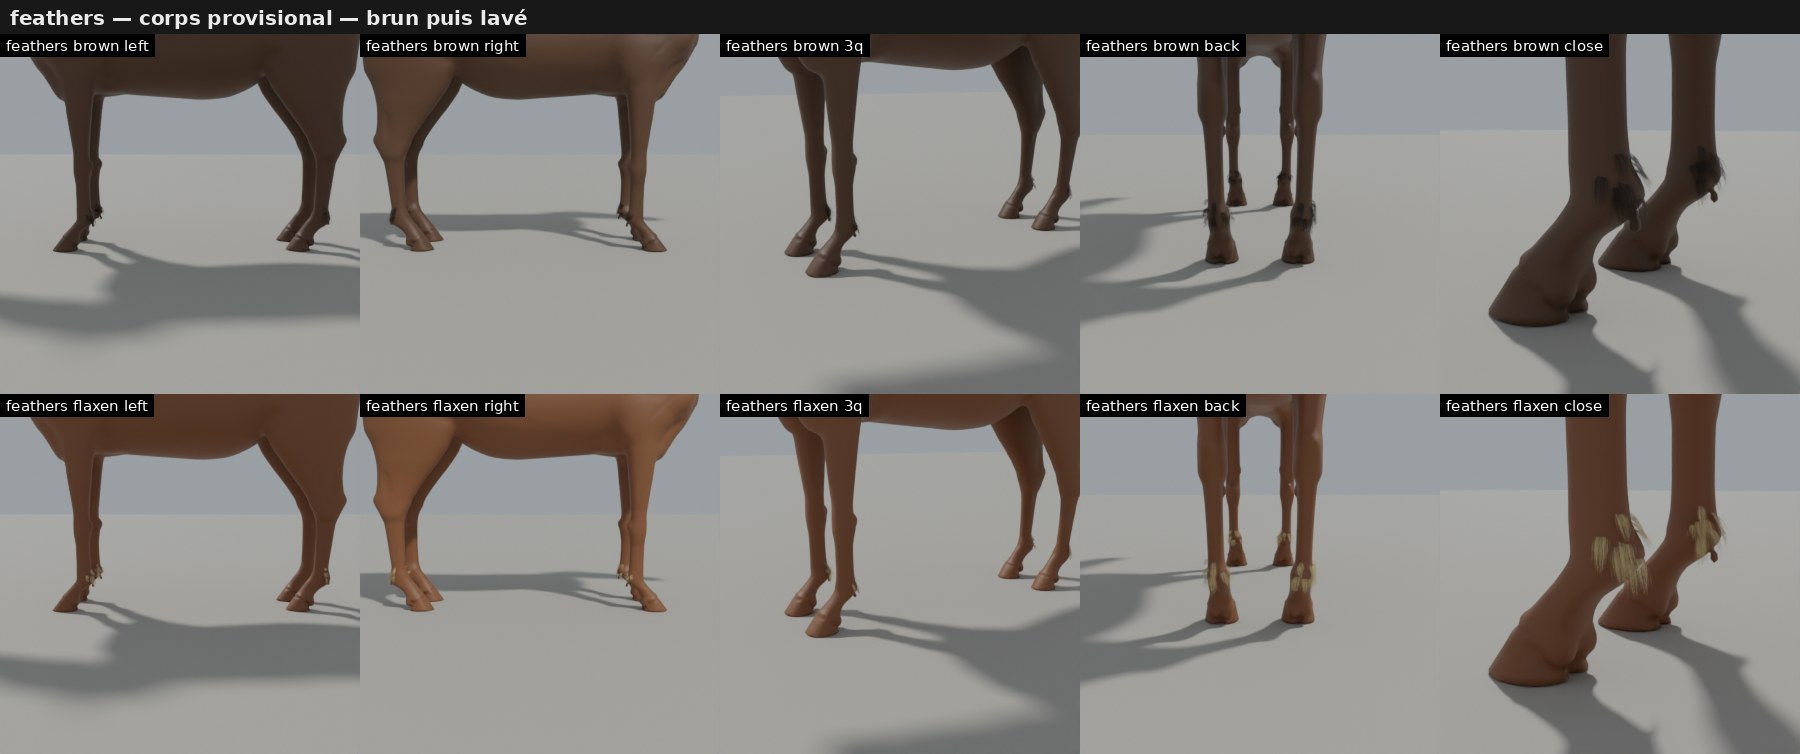
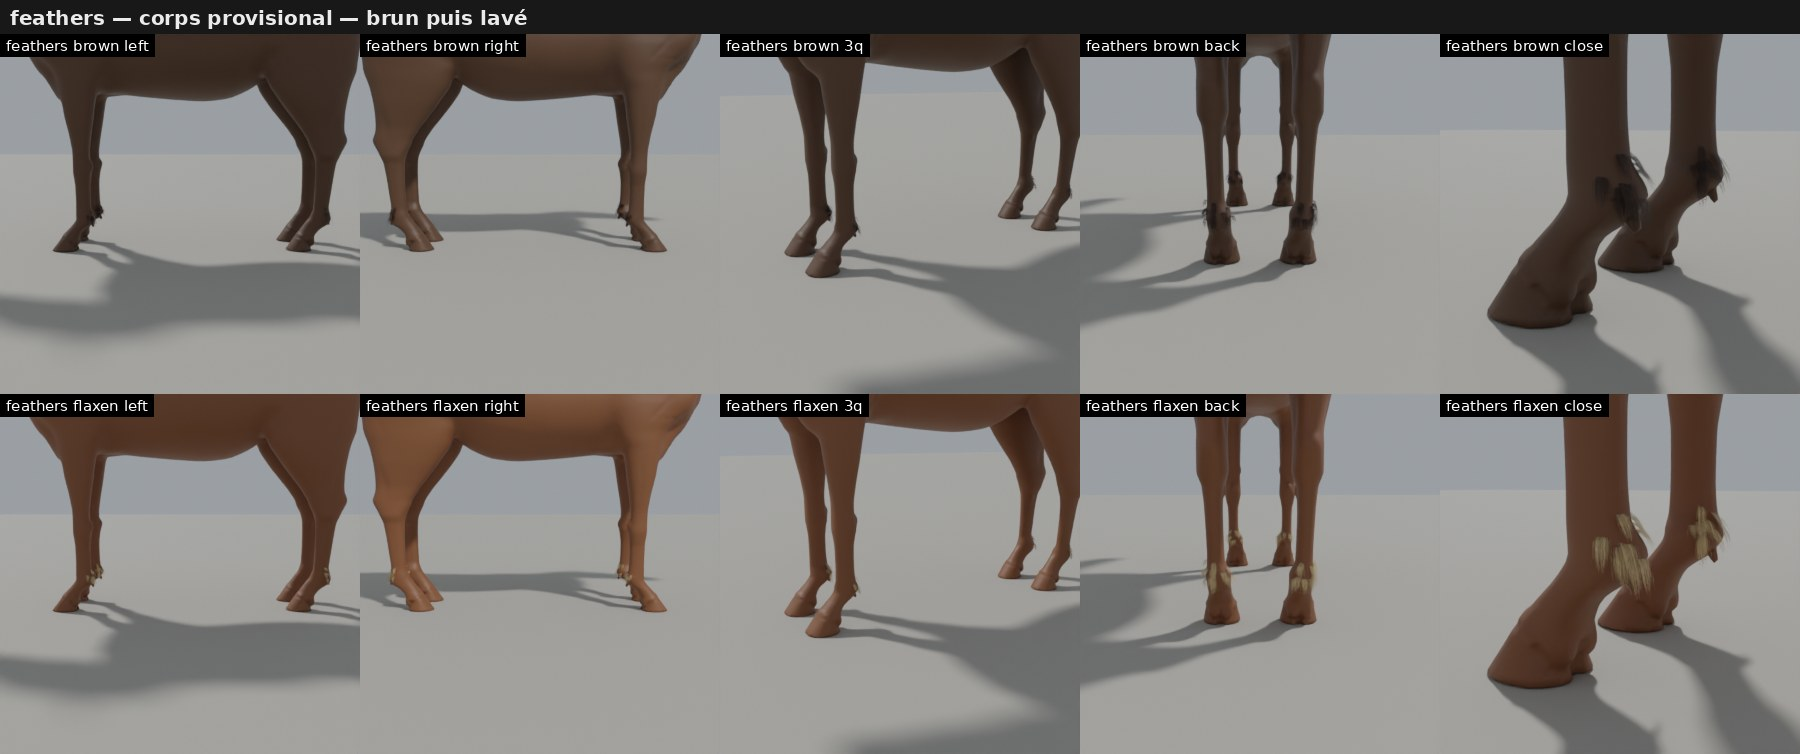
ValombrePony (WIP): reprise — état des modules corps, animation, crins et PonyKit
Instantané avant relance des agents (corps v15, modules d'animation, pièces de crins,
premiers fichiers PonyKit RealityKit). Non finalisé.

Claude-Session: https://claude.ai/code/session_01F5XXaSjBaSMrqED8EEuA65

diff --git a/ValombrePony/PonyKit/Sources/PonyKit/Rendering/PonySkinBinding.swift b/ValombrePony/PonyKit/Sources/PonyKit/Rendering/PonySkinBinding.swift
@@ -1,0 +1,270 @@
+import Foundation
+import PonyCore
+import RealityKit
+
+// Dans ce fichier, `Transform` est ambigu (RealityKit / PonyCore) : toujours qualifier le module.
+
+extension RealityKit.Transform {
+    /// Conversion d'une transformation locale PonyCore (quaternion `[x, y, z, w]`, mêmes axes : le runtime
+    /// travaille déjà en espace RealityKit, SPEC §1).
+    init(pony t: PonyCore.Transform) {
+        self.init(scale: t.scale,
+                  rotation: simd_quatf(ix: t.rotation.x, iy: t.rotation.y, iz: t.rotation.z, r: t.rotation.w),
+                  translation: t.translation)
+    }
+}
+
+extension Quat {
+    /// Conversion depuis un quaternion simd (RealityKit).
+    public init(_ q: simd_quatf) {
+        self.init(x: q.imag.x, y: q.imag.y, z: q.imag.z, w: q.real)
+    }
+}
+
+/// Parcours de hiérarchie et diagnostic des entités importées.
+@MainActor
+enum PonyEntityTree {
+    /// L'entité et tous ses descendants (ordre préfixe).
+    static func descendants(of root: Entity) -> [Entity] {
+        var out: [Entity] = []
+        var stack: [Entity] = [root]
+        while let e = stack.popLast() {
+            out.append(e)
+            stack.append(contentsOf: Array(e.children).reversed())
+        }
+        return out
+    }
+
+    /// Entités portant un `ModelComponent`.
+    static func modelEntities(in root: Entity) -> [Entity] {
+        return descendants(of: root).filter { $0.components.has(ModelComponent.self) }
+    }
+
+    /// Entités portant un `SkeletalPosesComponent` (squelette importé d'un UsdSkel).
+    static func poseEntities(in root: Entity) -> [Entity] {
+        return descendants(of: root).filter { $0.components.has(SkeletalPosesComponent.self) }
+    }
+
+    /// Entités portant un `BlendShapeWeightsComponent`.
+    static func blendEntities(in root: Entity) -> [Entity] {
+        return descendants(of: root).filter { $0.components.has(BlendShapeWeightsComponent.self) }
+    }
+
+    /// Arbre lisible : nom, composants pertinents, noms de matériaux (tests sur appareil, realitykit.md §9.1).
+    static func describe(_ root: Entity) -> String {
+        var lines: [String] = []
+        func visit(_ e: Entity, _ depth: Int) {
+            var tags: [String] = []
+            if e.components.has(ModelComponent.self) { tags.append("Model") }
+            if e.components.has(SkeletalPosesComponent.self) { tags.append("SkeletalPoses") }
+            if e.components.has(BlendShapeWeightsComponent.self) { tags.append("BlendShapeWeights") }
+            if e.components.has(AnimationLibraryComponent.self) { tags.append("AnimationLibrary") }
+            var extra = ""
+            if let model = e.components[ModelComponent.self] {
+                let names = model.materials.map { m -> String in
+                    let kind = m is PhysicallyBasedMaterial ? "PBR" : "\(type(of: m))"
+                    return "\(m.name ?? "∅")(\(kind))"
+                }
+                extra += " matériaux=[\(names.joined(separator: ", "))]"
+            }
+            if let poses = e.components[SkeletalPosesComponent.self], let p = poses.poses.default {
+                extra += " joints=\(p.jointNames.count) (ex. \(p.jointNames.prefix(3).joined(separator: ", ")))"
+            }
+            if let bs = e.components[BlendShapeWeightsComponent.self] {
+                var parts: [String] = []
+                for data in bs.weightSet {
+                    parts.append("\(data.weightNames.count) poids")
+                }
+                extra += " blendShapes=[\(parts.joined(separator: ", "))]"
+            }
+            let indent = String(repeating: "  ", count: depth)
+            lines.append("\(indent)- « \(e.name) » [\(tags.joined(separator: ", "))]\(extra)")
+            for c in e.children {
+                visit(c, depth + 1)
+            }
+        }
+        visit(root, 0)
+        return lines.joined(separator: "\n")
+    }
+
+    /// Dernier segment d'un nom de type chemin (`root/body/hips` → `hips`).
+    nonisolated static func shortName(_ s: String) -> String {
+        if let last = s.split(separator: "/").last {
+            return String(last)
+        }
+        return s
+    }
+}
+
+/// Lien entre le runtime (ordre des joints du manifeste, noms de blend shapes) et UNE entité RealityKit
+/// importée (corps ou pièce) : table de correspondance des joints, table des poids, écriture par frame.
+///
+/// - Joints : les noms de `SkeletalPose.jointNames` peuvent être des chemins USD ; on compare le dernier
+///   segment au nom court du manifeste (SPEC §1), puis le chemin complet. Joints absents journalisés.
+/// - Poids : table nom → (élément de `weightSet`, indice de poids) construite une fois ; noms inconnus du runtime
+///   ignorés. Écriture seulement si une valeur a changé (> 1e-4).
+@MainActor
+final class PonySkinBinding {
+    let entity: Entity
+    let label: String
+    /// Indice du joint du manifeste pour chaque joint de la pose RealityKit (−1 = laissé tel quel).
+    private(set) var jointMap: [Int] = []
+    private(set) var missingJoints: [String] = []
+    private(set) var unknownJoints: [String] = []
+    let hasPose: Bool
+
+    private struct WeightEntry {
+        let weightIndex: Int
+        let name: String
+        let flatIndex: Int
+    }
+
+    private var weightTable: [[WeightEntry]] = []
+    private var lastWeights: [Float] = []
+    private(set) var ignoredWeightNames: [String] = []
+    let hasWeights: Bool
+    private var poseWarningLogged = false
+
+    init(entity: Entity, label: String, manifest: PonyRigManifest, knownShapes: Set<String>) {
+        self.entity = entity
+        self.label = label
+        var byName: [String: Int] = [:]
+        var byPath: [String: Int] = [:]
+        for (i, j) in manifest.joints.enumerated() {
+            byName[j.name] = i
+            byPath[j.path] = i
+        }
+
+        // Joints.
+        if let poses = entity.components[SkeletalPosesComponent.self], let pose = poses.poses.default {
+            hasPose = true
+            var map: [Int] = []
+            var found = Set<Int>()
+            for raw in pose.jointNames {
+                let idx = byName[PonyEntityTree.shortName(raw)] ?? byPath[raw] ?? -1
+                map.append(idx)
+                if idx >= 0 { found.insert(idx) } else { unknownJoints.append(raw) }
+            }
+            jointMap = map
+            missingJoints = manifest.joints.enumerated().filter { !found.contains($0.offset) }.map { $0.element.name }
+            if !missingJoints.isEmpty {
+                PonyLog.warning("\(label) : \(missingJoints.count) joint(s) du manifeste absents du squelette importé "
+                    + "(\(missingJoints.prefix(6).joined(separator: ", "))…)")
+            }
+            if !unknownJoints.isEmpty {
+                PonyLog.warning("\(label) : \(unknownJoints.count) joint(s) importés inconnus du manifeste, laissés "
+                    + "à leur pose (\(unknownJoints.prefix(4).joined(separator: ", "))…)")
+            }
+        } else {
+            hasPose = false
+        }
+
+        // Poids des blend shapes.
+        if let bs = entity.components[BlendShapeWeightsComponent.self] {
+            var table: [[WeightEntry]] = []
+            var flat = 0
+            var ignored: [String] = []
+            for data in bs.weightSet {
+                var entries: [WeightEntry] = []
+                for (wi, raw) in data.weightNames.enumerated() {
+                    let name = PonyEntityTree.shortName(raw)
+                    if knownShapes.contains(name) {
+                        entries.append(WeightEntry(weightIndex: wi, name: name, flatIndex: flat))
+                        flat += 1
+                    } else if knownShapes.contains(raw) {
+                        entries.append(WeightEntry(weightIndex: wi, name: raw, flatIndex: flat))
+                        flat += 1
+                    } else {
+                        ignored.append(raw)
+                    }
+                }
+                table.append(entries)
+            }
+            weightTable = table
+            lastWeights = [Float](repeating: -1, count: flat)
+            ignoredWeightNames = ignored
+            hasWeights = flat > 0
+            if !ignored.isEmpty {
+                PonyLog.info("\(label) : blend shapes non pilotées par le runtime : \(ignored.prefix(8).joined(separator: ", "))")
+            }
+        } else {
+            hasWeights = false
+        }
+    }
+
+    /// Écrit la pose locale (ordre du manifeste, déjà convertie) dans `SkeletalPosesComponent.poses.default`.
+    func writePose(_ pose: [RealityKit.Transform]) {
+        guard hasPose, var component = entity.components[SkeletalPosesComponent.self],
+              var skeletal = component.poses.default else { return }
+        var transforms = skeletal.jointTransforms
+        let count = transforms.count
+        if count < jointMap.count {
+            // Pose importée sans transformations (non documenté) : on reconstruit un tableau complet [I].
+            if !poseWarningLogged {
+                poseWarningLogged = true
+                PonyLog.warning("\(label) : pose importée incomplète (\(count)/\(jointMap.count)), reconstruite")
+            }
+            var full = [RealityKit.Transform](repeating: RealityKit.Transform(), count: jointMap.count)
+            for (i, m) in jointMap.enumerated() where m >= 0 && m < pose.count {
+                full[i] = pose[m]
+            }
+            transforms = JointTransforms(full)
+        } else {
+            let base = transforms.startIndex
+            for i in 0..<jointMap.count {
+                let m = jointMap[i]
+                if m >= 0 && m < pose.count {
+                    transforms[base + i] = pose[m]
+                }
+            }
+        }
+        skeletal.jointTransforms = transforms
+        component.poses.default = skeletal
+        entity.components.set(component)
+    }
+
+    /// Écrit les poids (noms → valeurs 0…1). Sans changement depuis la dernière écriture : rien n'est fait.
+    func writeWeights(_ weights: [String: Float], force: Bool = false) {
+        guard hasWeights, var component = entity.components[BlendShapeWeightsComponent.self] else { return }
+        var changed = force
+        if !changed {
+            outer: for entries in weightTable {
+                for e in entries {
+                    let v = weights[e.name] ?? 0
+                    if abs(v - lastWeights[e.flatIndex]) > 1e-4 {
+                        changed = true
+                        break outer
+                    }
+                }
+            }
+        }
+        if !changed { return }
+        var set = component.weightSet
+        var idx = set.startIndex
+        var k = 0
+        while idx != set.endIndex && k < weightTable.count {
+            let entries = weightTable[k]
+            if !entries.isEmpty {
+                var data = set[idx]
+                var values = data.weights
+                let base = values.startIndex
+                for e in entries where e.weightIndex < values.count {
+                    let v = weights[e.name] ?? 0
+                    values[base + e.weightIndex] = v
+                    lastWeights[e.flatIndex] = v
+                }
+                data.weights = values
+                set[idx] = data
+            }
+            idx = set.index(after: idx)
+            k += 1
+        }
+        component.weightSet = set
+        entity.components.set(component)
+    }
+
+    var summary: String {
+        return "\(label) : pose=\(hasPose ? "\(jointMap.count) joints, \(missingJoints.count) manquants" : "non"), "
+            + "poids=\(hasWeights ? "\(lastWeights.count)" : "non")"
+    }
+}

diff --git a/ValombrePony/Pipeline/pony/anim/catalog.py b/ValombrePony/Pipeline/pony/anim/catalog.py
@@ -1,0 +1,47 @@
+"""Catalogue des clips du SPEC §7 : nom -> (générateur, durée cible du SPEC, type de source).
+
+Ordre = priorité du brief (allures et repos, puis comportements, puis saut).
+"""
+from __future__ import annotations
+
+from . import behaviours, gait, jump
+from .skeleton import Skeleton
+
+# nom : (fonction (sk) -> Clip, durée cible SPEC (s), catégorie)
+CLIPS = {
+    "idle": (lambda sk: behaviours.make(sk, "idle"), 6.0, "repos"),
+    "walk": (lambda sk: gait.make_gait_clip(sk, gait.walk_spec()), 1.05, "allure"),
+    "trot": (lambda sk: gait.make_gait_clip(sk, gait.trot_spec()), 0.66, "allure"),
+    "canter_left": (lambda sk: gait.make_gait_clip(sk, gait.canter_spec("left")), 0.57, "allure"),
+    "canter_right": (lambda sk: gait.make_gait_clip(sk, gait.canter_spec("right")), 0.57, "allure"),
+    "gallop": (lambda sk: gait.make_gait_clip(sk, gait.gallop_spec()), 0.46, "allure"),
+    "back": (lambda sk: gait.make_gait_clip(sk, gait.back_spec()), 1.2, "allure"),
+    "turn_left": (lambda sk: gait.make_gait_clip(sk, gait.turn_spec("left")), 1.4, "allure"),
+    "turn_right": (lambda sk: gait.make_gait_clip(sk, gait.turn_spec("right")), 1.4, "allure"),
+    "idle_rest_hind": (lambda sk: behaviours.make(sk, "idle_rest_hind"), 6.0, "repos"),
+    "graze_down": (lambda sk: behaviours.make(sk, "graze_down"), 1.5, "comportement"),
+    "graze_loop": (lambda sk: behaviours.make(sk, "graze_loop"), 5.0, "comportement"),
+    "graze_up": (lambda sk: behaviours.make(sk, "graze_up"), 1.2, "comportement"),
+    "head_shake": (lambda sk: behaviours.make(sk, "head_shake"), 1.2, "comportement"),
+    "neigh": (lambda sk: behaviours.make(sk, "neigh"), 2.2, "comportement"),
+    "paw": (lambda sk: behaviours.make(sk, "paw"), 1.6, "comportement"),
+    "rear": (lambda sk: behaviours.make(sk, "rear"), 2.6, "comportement"),
+    "lie_down": (lambda sk: behaviours.make(sk, "lie_down"), 3.0, "comportement"),
+    "lying": (lambda sk: behaviours.make(sk, "lying"), 6.0, "comportement"),
+    "get_up": (lambda sk: behaviours.make(sk, "get_up"), 2.5, "comportement"),
+    "roll": (lambda sk: behaviours.make(sk, "roll"), 4.5, "comportement"),
+    "body_shake": (lambda sk: behaviours.make(sk, "body_shake"), 1.5, "comportement"),
+    "jump_takeoff": (lambda sk: jump.make(sk, "jump_takeoff"), 0.5, "saut"),
+    "jump_air": (lambda sk: jump.make(sk, "jump_air"), 0.4, "saut"),
+    "jump_land": (lambda sk: jump.make(sk, "jump_land"), 0.6, "saut"),
+}
+
+# GIF animés demandés par le brief (+ un GIF combiné du saut : appel → vol balistique → réception)
+GIF_CLIPS = ["walk", "trot", "canter_left", "gallop", "rear", "roll"]
+
+
+def generate(sk: Skeleton, name: str):
+    fn, target, cat = CLIPS[name]
+    clip = fn(sk)
+    clip.extra_meta.setdefault("specTargetDuration", target)
+    return clip
